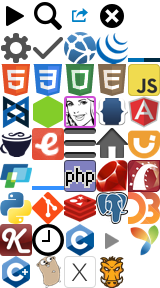
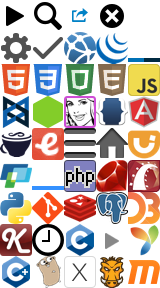
Add MaxCDN documentation

Changed region(s): [[0.7812, 0.875, 1.0, 1.0]]

diff --git a/assets/stylesheets/pages/_maxcdn.scss b/assets/stylesheets/pages/_maxcdn.scss
@@ -1,0 +1,49 @@
+._maxcdn {
+  padding-left: 1rem;
+
+  h1, h2, h3 { margin-left: -1rem; }
+  h2 { @extend %block-heading; }
+  h3 { @extend %block-label, %label-blue; }
+  h4 { font-size: 1em; }
+  p > code { @extend %label; }
+
+  .url {
+    padding: .5rem;
+    white-space: normal;
+    @extend %pre, %note-green;
+  }
+
+  .http_method { @extend %label; }
+
+  .nav-tabs {
+    height: 2rem;
+    padding: 0;
+    list-style: none;
+    border-bottom: 1px solid #ddd;
+
+    > li {
+      float: left;
+      margin: -1px 0;
+
+      > a {
+        display: block;
+        padding: .5rem 1em;
+        line-height: 1rem;
+        margin-right: 2px;
+        border: 1px solid transparent;
+        border-radius: 3px 3px 0 0;
+      }
+
+      &.active > a {
+        color: $textColor;
+        text-decoration: none;
+        background: white;
+        border-color: #ddd #ddd transparent;
+        cursor: default;
+      }
+    }
+  }
+
+  .tab-pane { display: none; }
+  .tab-pane.active { display: block; }
+}

diff --git a/assets/stylesheets/global/_icons.scss b/assets/stylesheets/global/_icons.scss
@@ -55,3 +55,4 @@
 ._icon-go:before            { background-position: -1rem -8rem; }
 ._icon-express:before       { background-position: -2rem -8rem; }
 ._icon-grunt:before         { background-position: -3rem -8rem; }
+._icon-maxcdn:before        { background-position: -4rem -8rem; }

diff --git a/assets/stylesheets/application.css.scss b/assets/stylesheets/application.css.scss
@@ -41,6 +41,7 @@
         'pages/grunt',
         'pages/less',
         'pages/lodash',
+        'pages/maxcdn',
         'pages/mdn',
         'pages/moment',
         'pages/node',

diff --git a/lib/docs/filters/maxcdn/entries.rb b/lib/docs/filters/maxcdn/entries.rb
@@ -1,0 +1,30 @@
+module Docs
+  class Maxcdn
+    class EntriesFilter < Docs::EntriesFilter
+      def additional_entries
+        type = id_prefix = nil
+
+        doc.children.each_with_object [] do |node, entries|
+          if node.name == 'h2'
+            type = node.content.strip
+            type.remove! %r{ API\z}
+            type.remove! ' Custom Domains'
+            id_prefix = type.parameterize
+            type = 'Reports' if type.starts_with? 'Reports'
+          elsif node.name == 'h3'
+            next unless type
+            name = node.content.strip
+            id = "#{id_prefix}-#{name}".parameterize
+            node['id'] = id
+
+            if name.ends_with?('Domain') && ['Push Zone', 'Pull Zone', 'VOD Zone'].include?(type)
+              name << " (#{type})"
+            end
+
+            entries << [name, id, type]
+          end
+        end
+      end
+    end
+  end
+end

diff --git a/lib/docs/filters/maxcdn/clean_html.rb b/lib/docs/filters/maxcdn/clean_html.rb
@@ -1,0 +1,25 @@
+module Docs
+  class Maxcdn
+    class CleanHtmlFilter < Filter
+      def call
+        css('hr', 'td:last-child:empty').remove
+
+        css('h1, h2, h3, h4').each do |node|
+          node.name = node.name.sub(/\d/) { |i| i.to_i + 1 }
+        end
+
+        at_css('h2').name = 'h1'
+
+        css('.path > a').each do |node|
+          node.before(node.children).remove
+        end
+
+        css('[name]').each do |node|
+          node.remove_attribute 'name'
+        end
+
+        doc
+      end
+    end
+  end
+end

diff --git a/lib/docs/scrapers/maxcdn.rb b/lib/docs/scrapers/maxcdn.rb
@@ -1,0 +1,17 @@
+module Docs
+  class Maxcdn < UrlScraper
+    self.name = 'MaxCDN'
+    self.type = 'maxcdn'
+    self.base_url = 'http://docs.maxcdn.com/'
+
+    html_filters.push 'maxcdn/clean_html', 'maxcdn/entries'
+
+    options[:container] = '#readme-docs'
+    options[:skip_links] = true
+
+    options[:attribution] = <<-HTML
+      &copy; 2014 MaxCDN<br>
+      Licensed under the MIT License.
+    HTML
+  end
+end
